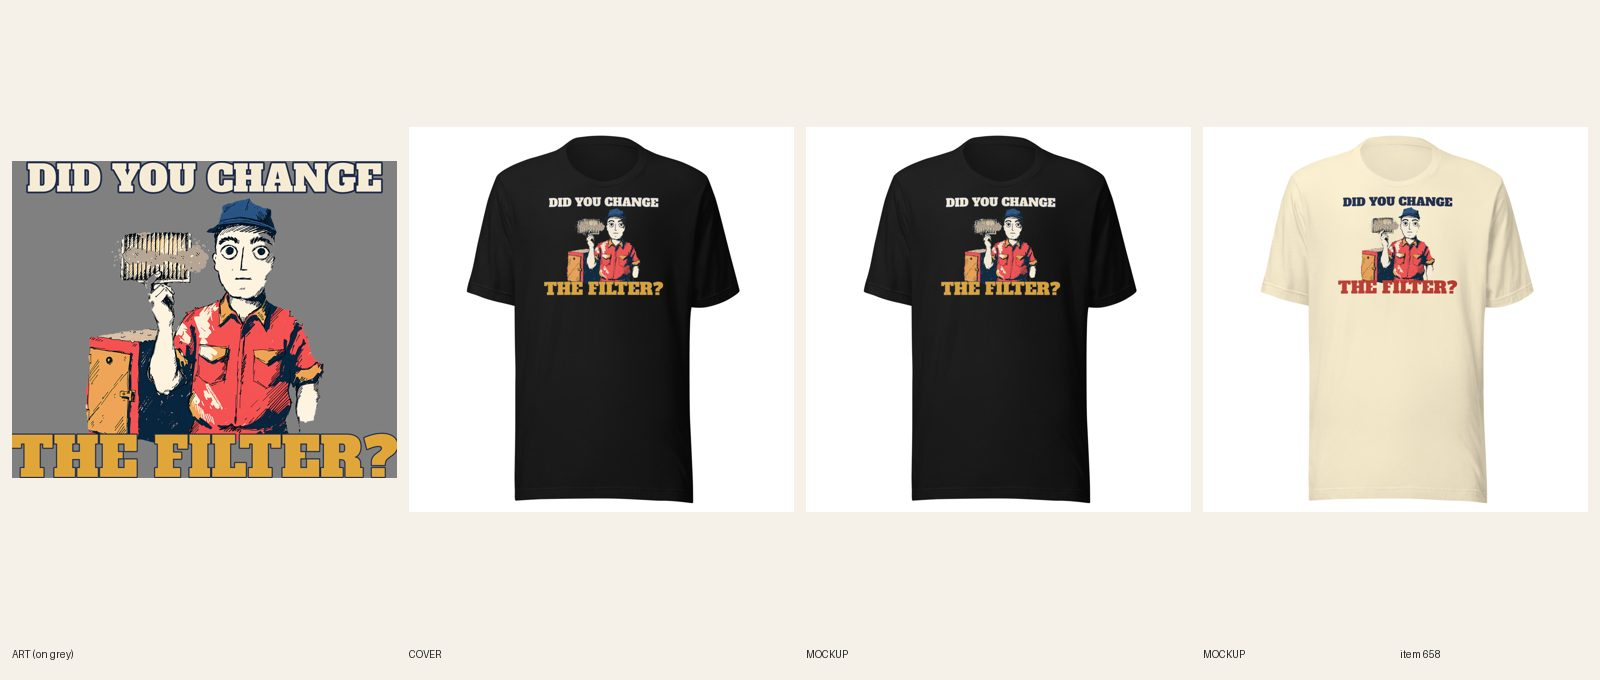
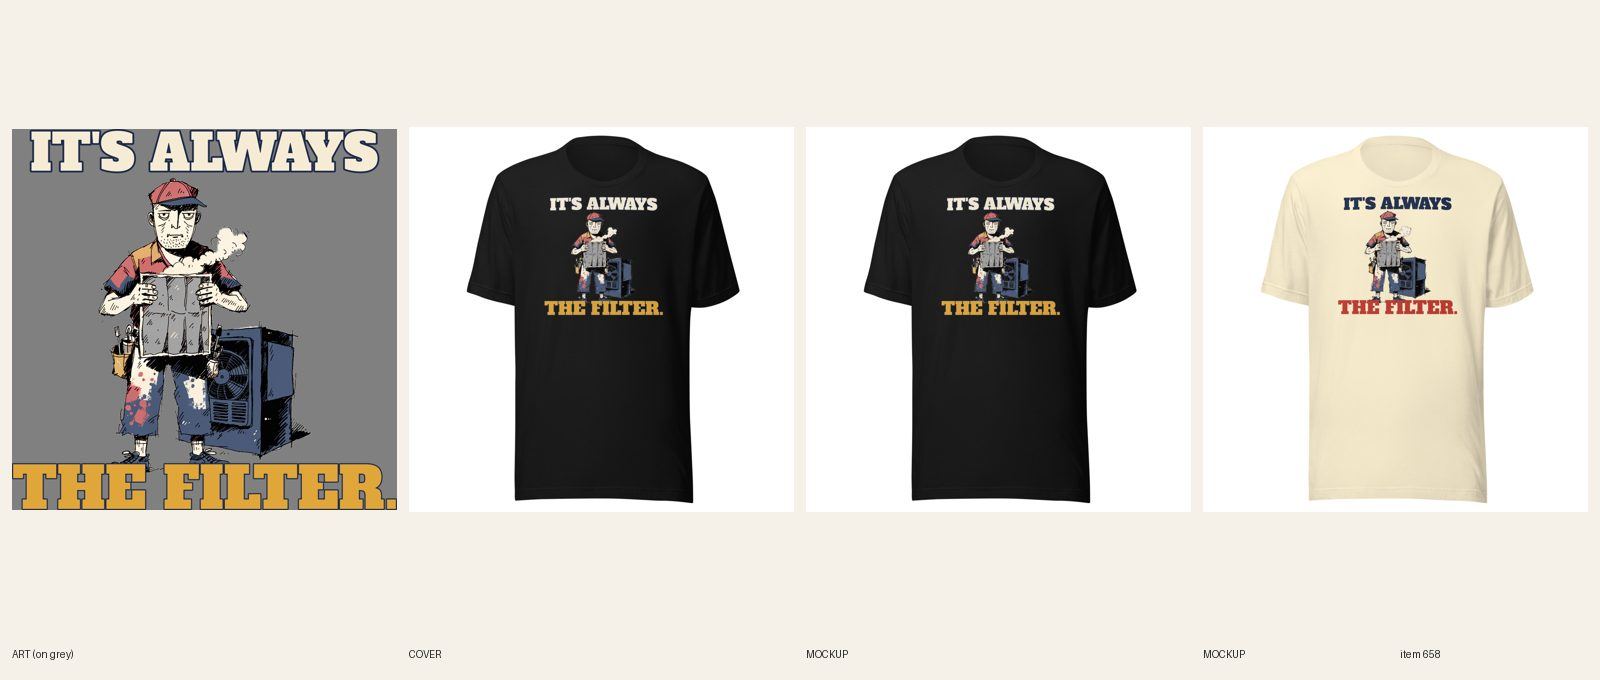
[E] review 658 Men's HVAC It's Always the Filter tee (redo)
Claude-Session: https://claude.ai/code/session_01NvWY6b1a3E5RMaJyn7b3HH

diff --git a/docs/pipeline/658-hvac-tee-did-you-change-the-filter.md b/docs/pipeline/658-hvac-tee-did-you-change-the-filter.md
@@ -1,4 +1,4 @@
-status: BUILDING [E] 2026-10-20 15:29
+status: REVIEW
 shopify: gid://shopify/Product/15369757851952
 lane: E
 type: new
@@ -30,3 +30,4 @@ kd: 30
 - 2026-10-18 16:21 UTC director: brief written, READY (lane E; kd 30; KD ≤ 20 band has no unclaimed phrase with a competition count in this run's sweep of 70+ trade, hobby and dad phrases (darts shirt 14,800/10 has no competition count, R2.10), so KD 21–35 first; proof named under the gate).
 - 2026-10-20 UTC builder [E]: built and set REVIEW. Art: 2 Recraft calls ($0.08; first had the tech facing away and a crumpled-paper filter, retry front-facing); the retry ran off the canvas at the bottom and left, so print-prep + designs/rough2.py (depth 45) gave it worn edges before the lockup. Shopify DRAFT gid 15369757851952, Printful sync 483384746, 56/56 synced: 35 on file 1090371221 (Black, Navy, Dark Grey Heather, Heather Forest, Steel Blue; cream DID YOU CHANGE with navy keyline, mustard THE FILTER?) + 21 on file 1090371268 (Natural, Ash, Athletic Heather; light file: headline fill navy, punch red, no keyline), back logo on all 56. Brief said Steel Blue as the fifth dark color (not Maroon). FW 1650 TOP 75. Widths: headline 3333 px / punch 3488 px on dark (105%), 3301 / 3469 on light (105%); punch is the larger line. Navy shirt and the figure's navy shading blend a little, the red shirt and cap carry the figure. Phone-size read on all 8 mockups: both lines legible. Keywords: hvac shirt 590/28 primary (funny hvac shirt measured KD 52, not used). FAQs 5 at 49-53 words plus fit. Cover: none (R6.11 hold), handle in retired-covers.json. Proof: brief names #581's 557-favorite same-format listing. Etsy exact-line check not possible from here.
 - 2026-10-20 14:40 UTC director: REDO from docs/review/658.jpg (stays DRAFT). 1. R5.3.4: the tech's left arm (viewer's right) ends in a cream stump at the elbow with no forearm or hand, and the face is a blank wide-eyed stare that reads as unsettling, not deadpan; below the floor beside 483/493 (R5.1). One new art call: tech holding the filthy filter up, both hands visible, tired deadpan face. 2. R3.7.2: DID YOU CHANGE THE FILTER? is the standard HVAC shirt line on Etsy; keep the filter idea but twist it, write 5 (e.g. IT'S THE FILTER. / IT'S ALWAYS THE FILTER. or NOT BROKEN. / JUST NEVER CHANGED.), keep the one a stranger laughs at in 3 seconds. Punch at least as wide as the headline (7h), subject 45%+ (7l).
+- 2026-10-20 15:54 UTC builder [E]: REDO done. 1. Art: 1 new Recraft call ($0.04, first try kept): tired deadpan tech, half-lidded eyes, flat mouth, BOTH hands and both forearms visible holding the filthy filter, dust cloud, furnace beside him. 2. Five lines considered: "IT'S ALWAYS / THE FILTER." (kept: a tech or a homeowner gets it in 3 seconds) · "NOT BROKEN. / JUST NEVER CHANGED." · "IT'S THE FILTER. / IT'S ALWAYS THE FILTER." · "THIS IS WHY / IT'S WARM." · "BLAME THE / FILTER." Etsy count for the kept line: not checkable from here (Etsy returns 403 to cloud runs); no other item in docs/pipeline uses it. Widths (7h): headline 3193 px / punch 3516 px = 110%. Subject (7l): 1831 of 3517 px = 52% of the lockup (0.52 x the widest line, floor 0.45). Type: two lines of 3193/3516 px wide, about 25% of the 3479 px print height (the wide slab lines set the size; the subject stays 52% wide). Same Alfa Slab One, cream headline with navy keyline on the 5 dark colors (file 1090456009, 35/35); light file kept for Natural/Ash/Athletic Heather (navy headline, red punch, no keyline; file 1090456085, 21/21); back logo 1080398177 on all 56; FW 1650 TOP 75; 56/56 synced and verified. New title "Men's HVAC – It's Always the Filter Tee", SEO title/meta and line one on the new line; FAQs 41-55 words (first is 55); "frame" search clean. 8 new front mockups attached per color (one attach failed on a URL typo, caught, redone), old ones deleted. Phone-size read: both lines legible on all 8. Audit: only "not visible". fal $0.04. REVIEW.

diff --git a/docs/intake-log.md b/docs/intake-log.md
@@ -2,12 +2,12 @@
 2026-10-20 15:37 UTC — [B] Builder run (first lane B session, 09:02–15:37 UTC) ended: all 21 lane B REDOs in REVIEW (545 549 573 575 482 530 591 584 543 574 547 532 488 531 498, several redone after director rounds). Lock released. No lane B REDO left. READY lane B items #590–#603 not started: they predate the quality reset (old bar-and-caption type format), need the Etsy listing-count check I can't make from here (etsy.com 403), and a second lane B session collided with mine on #482 (12:07–12:25). fal $0 for this session.
 2026-10-20 15:50 UTC — [A] Builder run: #724 Frenchie Santa's Cookies tee and #725 ornament built, DRAFT, REVIEW. fal $0.04.
 2026-10-20 15:39 UTC — [A] Builder run: copy-only REDOs #615 (favorite child shirt) and #721 (FAQ), REVIEW. fal $0.
-RUNNING lane E since 2026-10-20 15:29 UTC
 2026-10-20 15:38 UTC — [A] Builder run: #720 Frenchie Silent Night crewneck (twin of #719), 12/12 synced. REVIEW. fal $0.
 2026-10-20 15:36 UTC — [A] Builder run: #719 Frenchie Silent Night. Except the Snoring. tee, 48/48 synced. REVIEW. fal $0.
 RUNNING lane C since 2026-10-20 15:08 UTC
 2026-10-20 15:36 UTC — [B] Builder run: redid #498 Psalm 121 embroidered crewneck (PSALM 121:1 caps 0.33 in, was 0.28 in; stitch 3.17 x 3.92 in, 12/12 synced). REVIEW. fal $0.
 RUNNING director since 2026-10-20 15:21 UTC
+2026-10-20 15:54 UTC — [E] Builder run: REDO #658 HVAC tee: new art (both hands, tired face), line IT'S ALWAYS / THE FILTER. (punch 110% of headline, subject 52%), 56/56 synced, title/SEO/copy/mockups updated. REVIEW. fal $0.04. Lane E lock released. Lane E queue left: #704 and #722/#723 READY (hoodies), #705-#718 PARKED by director (R5.2 proof gate).
 2026-10-20 15:28 UTC — [A] Builder run: #696 dance mom crewneck (twin of #534), 11/11 synced. REVIEW. fal $0.
 2026-10-20 15:27 UTC — [A] Builder run: #500 trees sheared 12 degrees, 12/12 synced. REVIEW. fal $0.
 2026-10-20 15:30 UTC — [B] Builder run: redid #531 Men's Gym pump cover (line + type: I'M NOT LAZY. / I'M DELOADING., same Greek-vase bench art, Anton, subject 66%, new front panel, 10/10 synced). REVIEW. fal $0.
